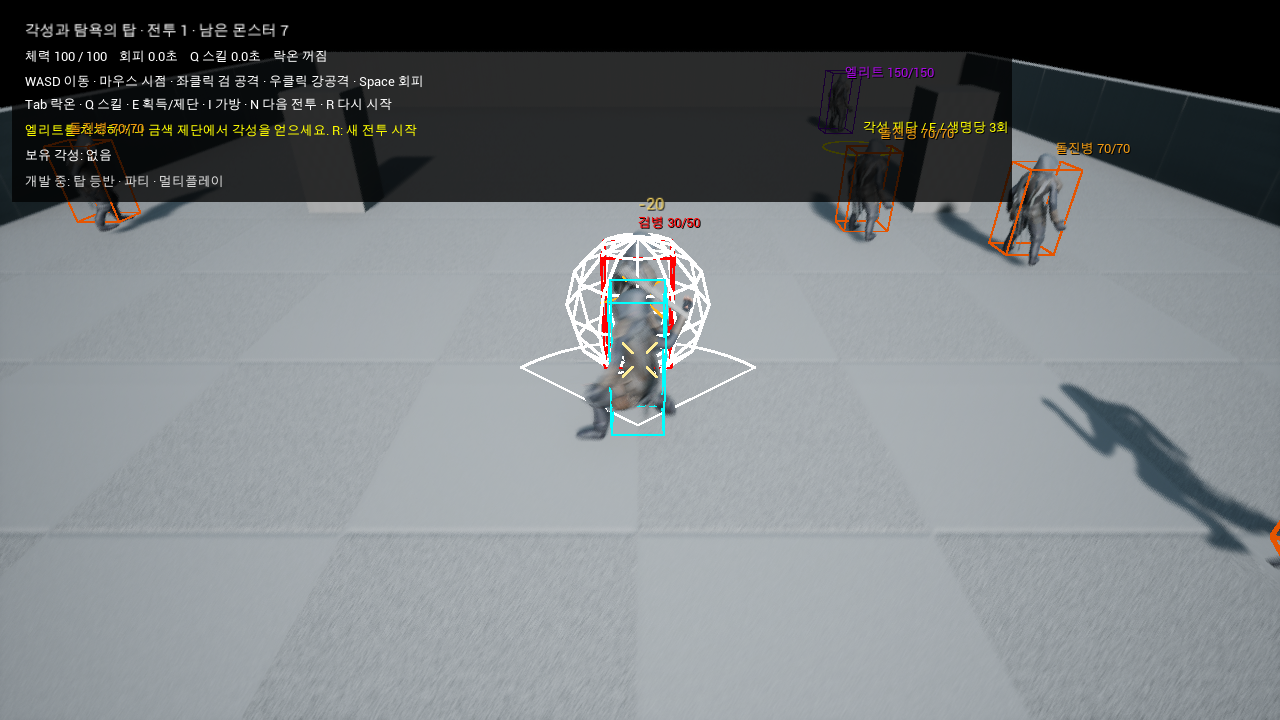
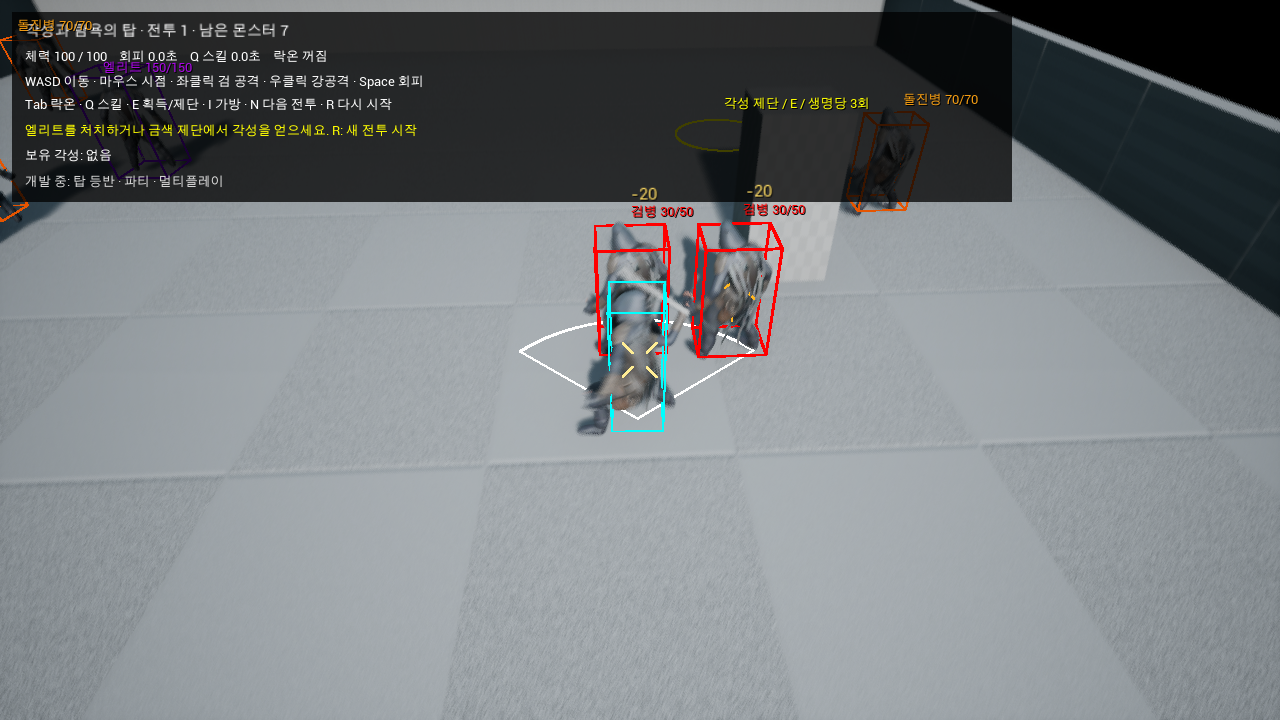
수정: 대기 자세 정면과 명중 효과 가독성 보정

Changed region(s): [[0.0, 0.0, 1.0, 0.6111], [0.8125, 0.5194, 1.0, 0.7944], [0.25, 0.1222, 0.3125, 0.3056]]

diff --git a/Source/AscensionPrototype/CombatLab.cpp b/Source/AscensionPrototype/CombatLab.cpp
@@ -42,7 +42,7 @@ namespace Lab
         if(!Model) return false;
         USkeletalMeshComponent* Mesh=Character->GetMesh(); Mesh->SetSkeletalMeshAsset(Model); Mesh->SetCollisionEnabled(ECollisionEnabled::NoCollision);
         FBoxSphereBounds Bounds=Model->GetImportedBounds(); float Scale=180.f/FMath::Max(1.f,float(Bounds.BoxExtent.Z*2));
-        Mesh->SetRelativeScale3D(FVector(Scale)); Mesh->SetRelativeRotation(FRotator(0,270,0));
+        Mesh->SetRelativeScale3D(FVector(Scale)); Mesh->SetRelativeRotation(FRotator(0,180,0));
         Mesh->SetRelativeLocation(FVector(0,0,-88-(Bounds.Origin.Z-Bounds.BoxExtent.Z)*Scale));
         if(UMaterialInterface* Material=LoadObject<UMaterialInterface>(nullptr,TEXT("/Game/Models/M_SharedKnight.M_SharedKnight")))
             for(int32 I=0;I<Mesh->GetNumMaterials();++I) Mesh->SetMaterial(I,Material);
@@ -54,8 +54,8 @@ namespace Lab
     }
     void Visual(ACharacter* Character,const TArray<TObjectPtr<UAnimSequence>>& Clips,int32 State,int32& Previous,float Duration=0)
     {
-        // Calibrate idle with locomotion; retain the separate slash-clip orientation.
-        Character->GetMesh()->SetRelativeRotation(FRotator(0,(State==2 || State==3)?180:270,0));
+        // Idle/slash and locomotion/roll use different source forward axes.
+        Character->GetMesh()->SetRelativeRotation(FRotator(0,(State==1 || State==4)?270:180,0));
         if(State==Previous || !Clips.IsValidIndex(State) || !Clips[State]) return;
         Previous=State; Character->GetMesh()->PlayAnimation(Clips[State],State<=1);
         Character->GetMesh()->SetPlayRate(Duration>0?Clips[State]->GetPlayLength()/Duration:1.f);
@@ -428,7 +428,6 @@ void ACLEnemy::ReceiveHit(float Damage)
         GetWorldTimerManager().SetTimer(ImpactPauseTimer,FTimerDelegate::CreateWeakLambda(this,[this]() { CustomTimeDilation=1.f; }),.045f,false);
         if(Kind==0) { Phase=3; Deadline=Lab::Now(this)+.13; GetCharacterMovement()->StopMovementImmediately(); }
     }
-    DrawDebugSphere(GetWorld(),GetActorLocation(),85,12,FColor::White,false,.12,0,3);
     UE_LOG(LogTemp,Display,TEXT("ASCENSION_HIT kind=%d damage=%.0f hp=%.0f"),Kind,Damage,HP);
     if(HP==0)
     {

diff --git a/Docs/데모_개발진행.md b/Docs/데모_개발진행.md
@@ -1,5 +1,7 @@
 # 개발 진행
 
+추가 렌더링 보정: 랜덤 전투 화면에서 앞선 대기 자세 90도 보정이 모델을 옆으로 돌리는 것을 재확인했다. 초기·대기·검 공격은 상대 Yaw 180, 달리기·구르기는 270으로 구분해 다시 정렬했다. RandomCombat.png와 CombatImpact.png는 최신 실제 화면이다. 명중 시 적을 둘러싸던 흰색 디버그 구를 제거해 피해 숫자와 불꽃의 가독성을 높였다.
+
 최신 전투 확장: 일반 플레이에 랜덤 몬스터 7마리(검병·돌진병·엘리트)를 배치한다. 시작 위치에서 최소 450cm, 몬스터 간 최소 180cm를 확보하고 벽·기둥 충돌 위치를 거부한다. 전멸 보상은 체력 +20이며 N으로 장비·각성을 유지한 다음 전투를 시작한다. 적 수는 최대 10마리, 체력 증가는 차수당 8%(최대 40%)다. 층 이동과 구분하는 전투장 반복 기능이다.
 
 타격감 확장: 실제 검 명중에만 0.045초 개인 히트 스톱, 0.12초 카메라 흔들림, 명중 표시·피해 숫자·불꽃·합성 효과음을 적용했다. 약한 검병만 짧게 경직하며 돌진병·엘리트의 전조는 유지한다. 새로운 Meshy 요청이나 결제는 없다. 전투 회귀 시험과 20개 시드 생성 시험을 통과했다.

diff --git a/Verification/RESULTS.md b/Verification/RESULTS.md
@@ -6,5 +6,6 @@
 - Combat.log: 기존 전투·각성·장비·이동·회피 시험 통과. ASCENSION_VERIFY PASS wall_trials=20.
 - RandomSpawn.log: 난수 시드 100~119 모두 7마리 생성, 종류 조합·시작 거리·서로 간 거리 확인. 시드 변경 시 배치 변화 확인. 전투 중 다음 차수 진입 거절, 전멸 후 다음 차수 8마리·장비 ID 유지 확인. ASCENSION_RANDOM_VERIFY PASS seeds=20.
 - 효과음: 외부 에셋 없이 Scripts/CreateFeedbackAudio.ps1로 0.18초 PCM WAV 합성, Content/Audio/SwordImpact로 임포트 성공.
+- 랜덤 전투·명중 실제 화면: RandomCombat.png(7마리), CombatImpact.png(20 피해·중앙 명중 표시·불꽃) 직접 확인. 초기 대기와 달리기의 서로 다른 전방 축을 분리해 보정했고 명중 디버그 구를 제거했다. BuildCombatFinal.log에서 최종 시각 수정 빌드 성공.
 
 원본 엔진 로그는 로컬 Verification에 보존하고 Git에는 요약과 화면을 기록한다. 자동 시험은 재미·난이도와 청감 품질을 검증하지 않는다. 타격감·다수 적 전투는 사용자 재플레이가 필요하다. 전체 D1/D2 완료가 아니다.
